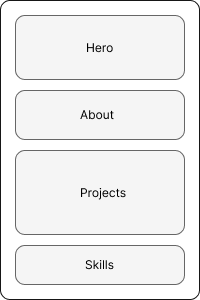
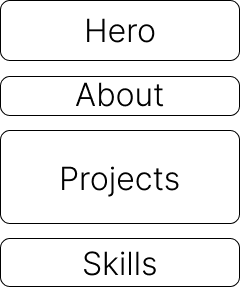
Update layout preview
- remove border on layout preview
- made the menu bigger
- made the preview bigger
- update the layout-modern.png

Changed region(s): [[0.0, 0.0, 1.0, 1.0], [0.24, 0.5625, 0.75, 0.6875]]

diff --git a/src/components/TopNav.jsx b/src/components/TopNav.jsx
@@ -47,7 +47,7 @@ const [activeTab, setActiveTab] = useState('layout');
               
               {/* Dropdown Menu */}
               {isTemplateMenuOpen && (
-                <div className="absolute top-full left-0 mt-1 w-80 bg-white rounded-md shadow-lg border border-gray-200 z-50">
+                <div className="absolute top-full left-0 mt-1 w-[600px] bg-white rounded-md shadow-lg border border-gray-200 z-50">
                   {/* Tab Headers */}
                   <div className="flex border-b border-gray-200">
                     <button
@@ -85,7 +85,7 @@ const [activeTab, setActiveTab] = useState('layout');
                             }}
                             className="flex flex-col items-center p-3 text-gray-700 hover:bg-gray-100 hover:text-gray-900 rounded-md transition-colors duration-200"
                           >
-                            <div className="w-20 h-24 mb-2 bg-gray-200 rounded border border-gray-300 flex items-center justify-center overflow-hidden">
+                            <div className="w-36 h-44 mb-2 bg-gray-200 rounded flex items-center justify-center overflow-hidden">
                               {layout.id === 'modern' ? (
                                 <img 
                                   src="/images/layout-modern.png" 
